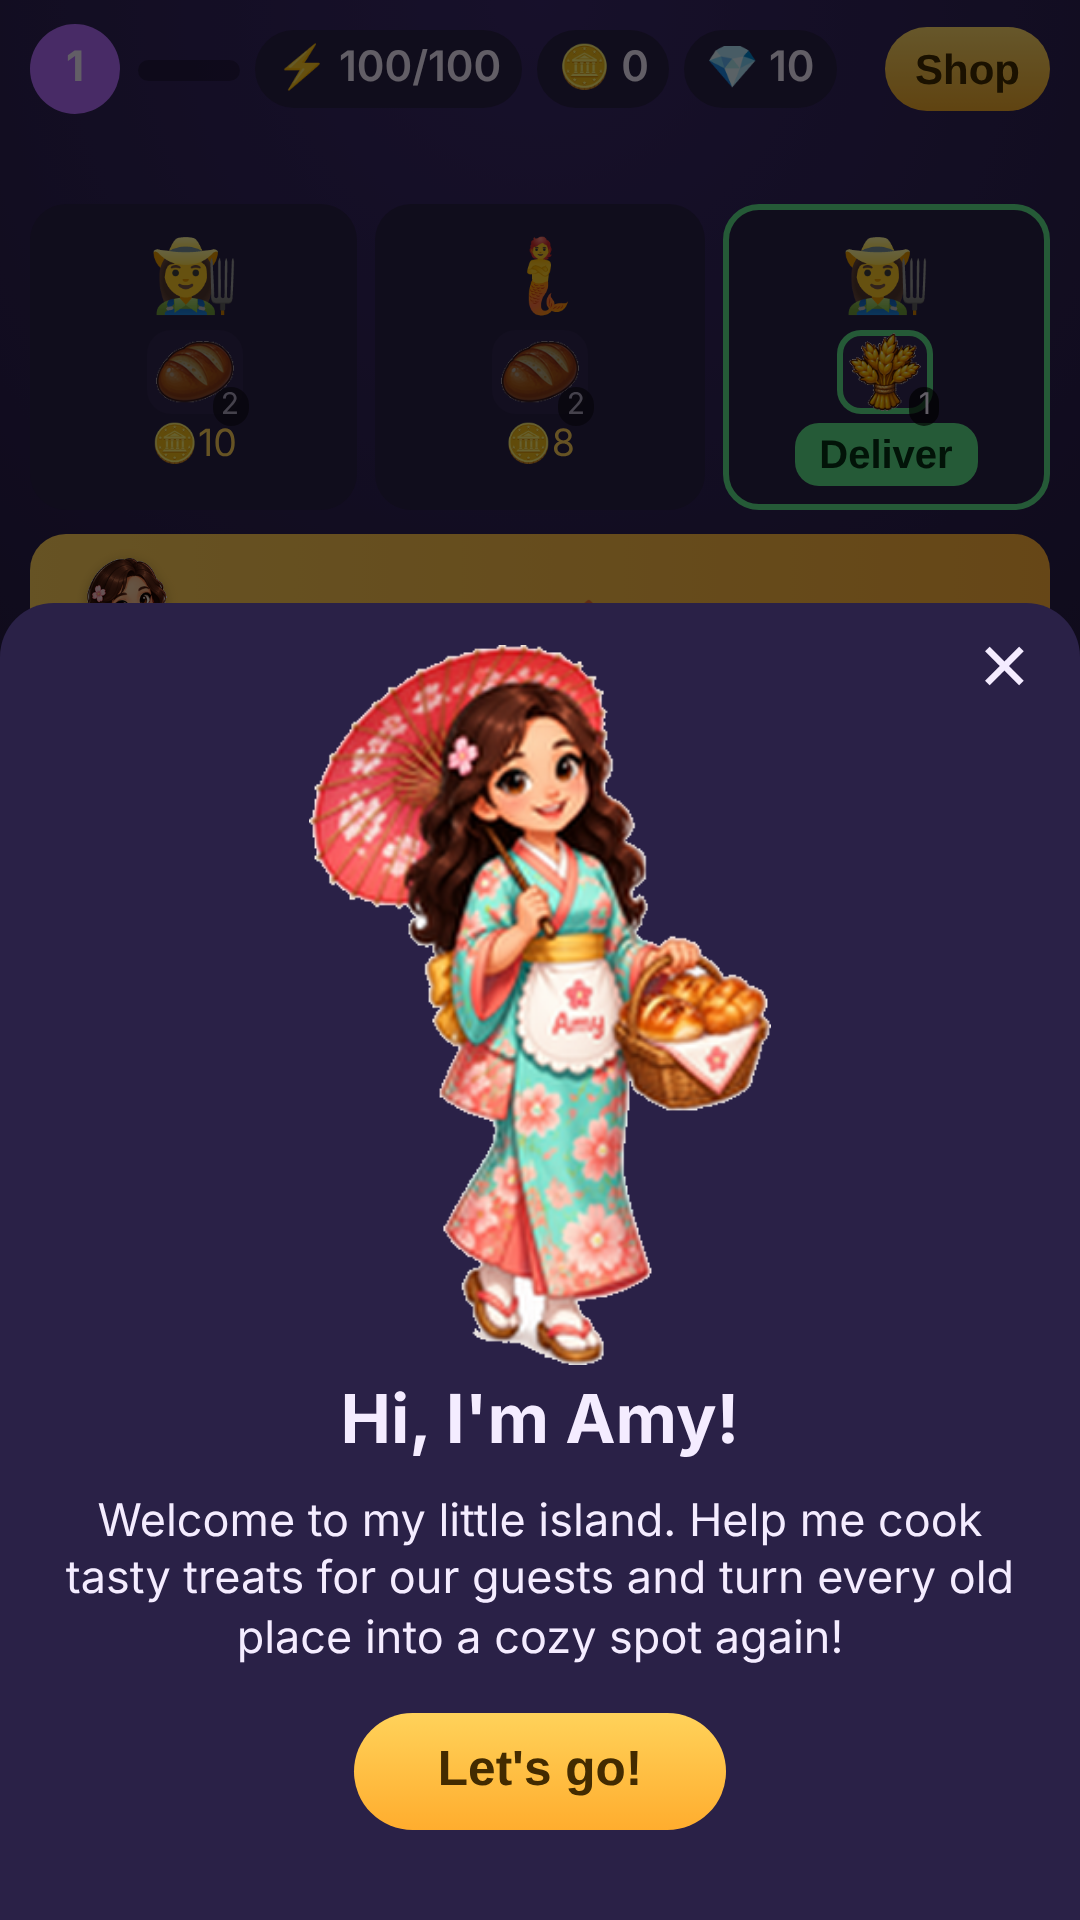
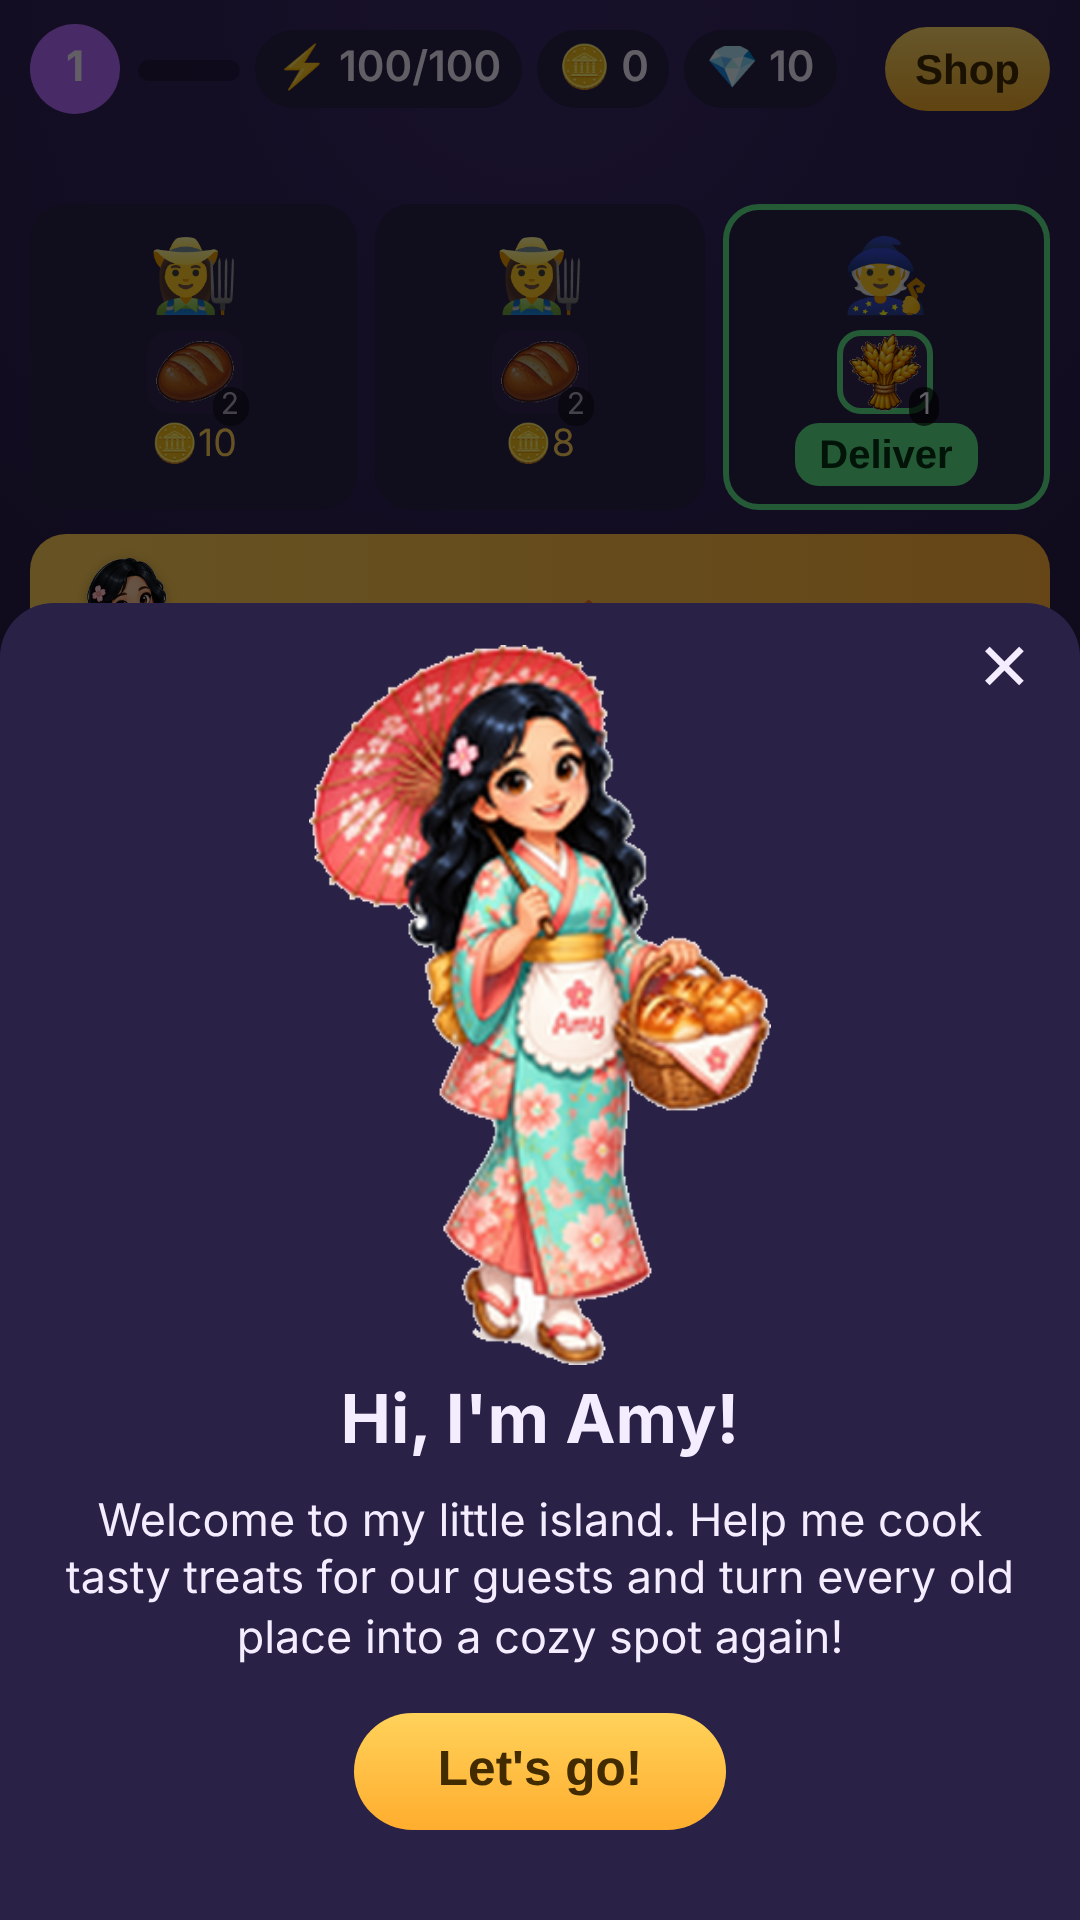
Amy with black hair (owner request); run:ios

diff --git a/tools/amy_art.py b/tools/amy_art.py
@@ -1,0 +1,43 @@
+# Builds Amy game images, app icons and the Play feature graphic from assets/raw/amy_face.png + amy_full.png.
+from PIL import Image, ImageDraw, ImageFont
+def cut(src, dst, scale=1):
+    im = Image.open(src).convert('RGBA')
+    if scale != 1: im = im.resize((im.width * scale, im.height * scale), Image.LANCZOS)
+    w, h = im.size; px = im.load(); seen = set()
+    st = [(x, y) for x in range(w) for y in (0, h - 1)] + [(x, y) for y in range(h) for x in (0, w - 1)]
+    while st:
+        x, y = st.pop()
+        if (x, y) in seen or not (0 <= x < w and 0 <= y < h): continue
+        r, g, b, a = px[x, y]
+        if r < 235 or g < 235 or b < 235: continue
+        seen.add((x, y)); px[x, y] = (255, 255, 255, 0); st += [(x+1, y), (x-1, y), (x, y+1), (x, y-1)]
+    im = im.crop(im.getbbox()); im.save(dst); return im
+face = cut('assets/raw/amy_face.png', 'web/img/amy_face.png')
+full = cut('assets/raw/amy_full.png', 'web/img/amy_full.png', 2)
+S = 1024; bg = Image.new('RGBA', (S, S)); d = ImageDraw.Draw(bg)
+for y in range(S):
+    t = y / S; d.line([(0, y), (S, y)], fill=(int(255-30*t), int(196-60*t), int(110+40*t), 255))
+d.ellipse((-200, 700, 1224, 1400), fill=(246, 215, 150, 255))
+f = face.resize((int(face.width*4.6), int(face.height*4.6)), Image.LANCZOS)
+bg.alpha_composite(f, (max((S-f.width)//2, 0), max(S-f.height+10, 0)))
+for k, (ix, iy, sz) in {'bakery_2': (40, 60, 230), 'fruit_3': (760, 80, 220)}.items():
+    bg.alpha_composite(Image.open(f'web/img/{k}.png').convert('RGBA').resize((sz, sz), Image.LANCZOS), (ix, iy))
+ic = bg.convert('RGB')
+ic.save('ios/App/Assets.xcassets/AppIcon.appiconset/icon-1024.png'); ic.resize((512, 512), Image.LANCZOS).save('store/icon_512.png')
+for dd, s in {'mdpi': 48, 'hdpi': 72, 'xhdpi': 96, 'xxhdpi': 144, 'xxxhdpi': 192}.items():
+    ic.resize((s, s), Image.LANCZOS).save(f'android/app/src/main/res/mipmap-{dd}/ic_launcher.png')
+W, H = 1024, 500; im = Image.new('RGBA', (W, H)); d = ImageDraw.Draw(im)
+for y in range(H):
+    t = y / H; d.line([(0, y), (W, y)], fill=(int(255-60*t), int(190-40*t), int(120+90*t), 255))
+d.ellipse((560, 360, 1200, 720), fill=(246, 215, 150, 255))
+for k, (x, y, s) in {'bakery_7': (560, 250, 150), 'fruit_7': (880, 280, 150), 'fruit_5': (900, 60, 120)}.items():
+    im.alpha_composite(Image.open(f'web/img/{k}.png').convert('RGBA').resize((s, s), Image.LANCZOS), (x, y))
+a = full.resize((int(full.width*470/full.height), 470), Image.LANCZOS); im.alpha_composite(a, (735-a.width//2, H-a.height-5))
+F = ImageFont.truetype('/usr/share/fonts/truetype/dejavu/DejaVuSans-Bold.ttf', 74); G = ImageFont.truetype('/usr/share/fonts/truetype/dejavu/DejaVuSans-Bold.ttf', 38)
+def txt(xy, s, font):
+    for dx in (-4, 4, 0):
+        for dy in (-4, 4, 0): d.text((xy[0]+dx, xy[1]+dy), s, font=font, fill=(120, 50, 20))
+    d.text(xy, s, font=font, fill=(255, 255, 255))
+txt((40, 110), "Amy's", F); txt((40, 200), "Tasty Island", F); txt((44, 320), "Merge, cook & restore!", G)
+im.convert('RGB').save('store/feature_graphic.png')
+print('ok')
